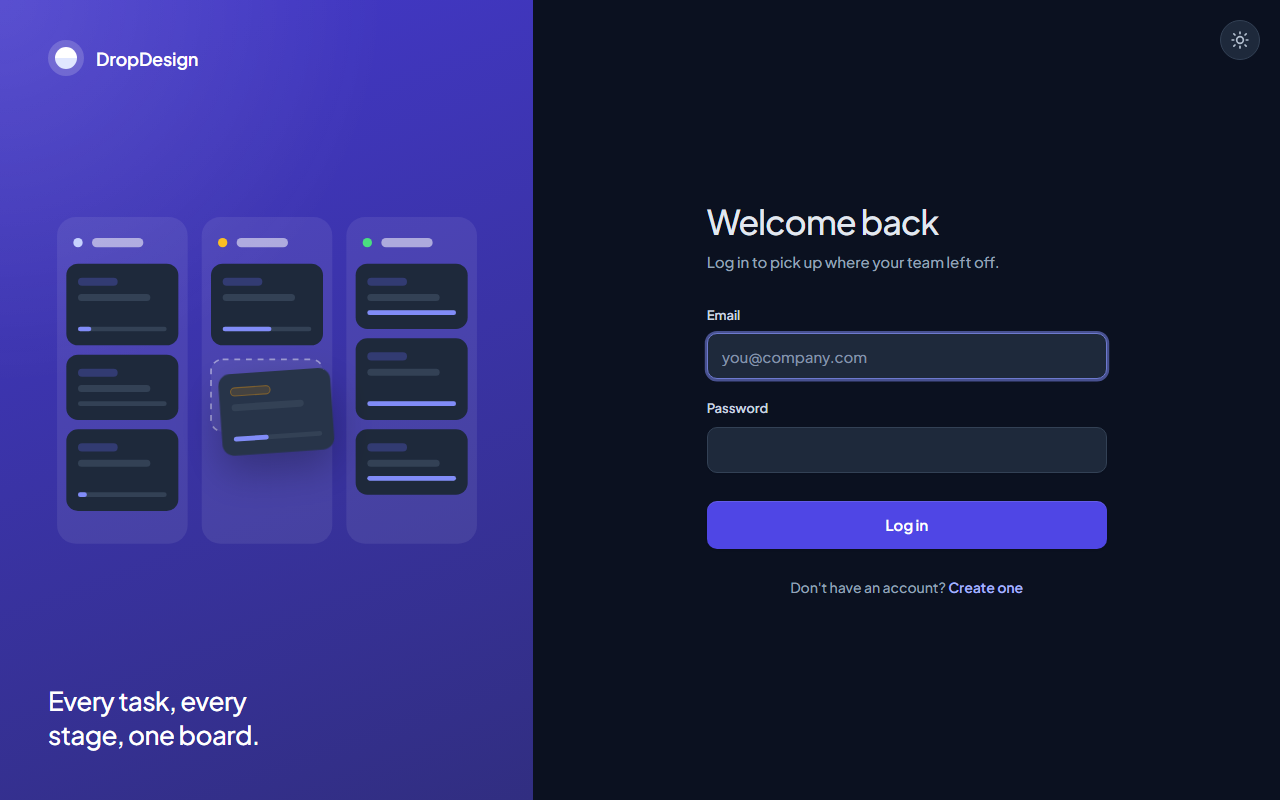
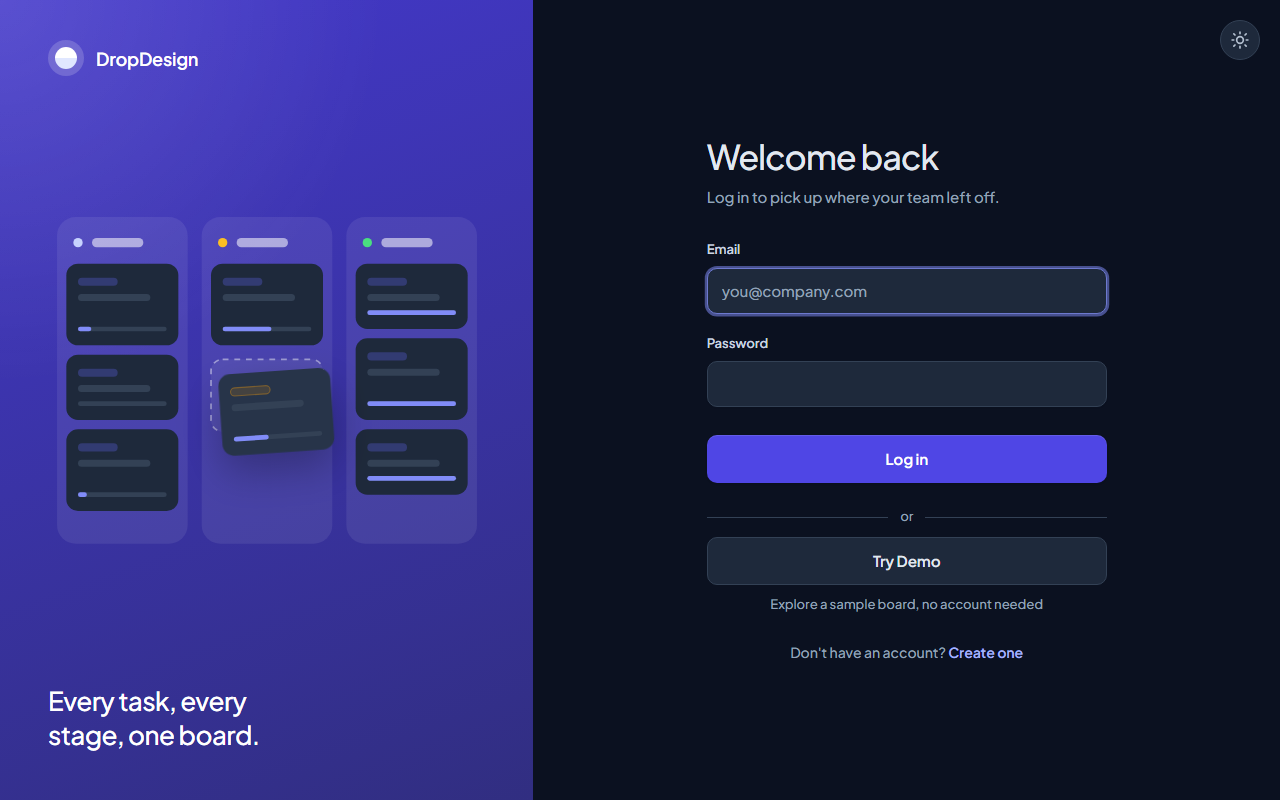
Re-record README media against the live site; update docs
- docs/demo.gif (35.5 s, 960x600, 15 fps, 3.6 MB), recorded on
  https://dropdesign-ashy.vercel.app with Try Demo: the board, the Grid,
  List, Column and Row views, a drag, a comment, dark mode, search and a
  priority filter
- Screenshots retaken from the live site: board and login in light and
  dark, plus the List view (dark)
- README: features (edge-case states, placeholder contrast), the List
  screenshot, test counts (frontend 173, backend 69), coverage (~84% of
  lines), when CI runs, and what the tests cover

The recording scripts stay out of the repo; the demo board was reset after
recording.

Changed region(s): [[0.5312, 0.1875, 0.875, 0.7812], [0.625, 0.8125, 0.8125, 0.8438]]

diff --git a/README.md b/README.md
@@ -19,7 +19,7 @@ to a sample board, no account needed. Or log in with:
 The demo board is shared by everyone and resets every day at 04:00 UTC; the demo account
 can change anything except delete tasks.
 
-![DropDesign demo: logging in, dragging a task to In Progress, commenting on it, switching to dark mode and filtering the board](docs/demo.gif)
+![DropDesign demo: Try Demo, switching between the Grid, List, Column and Row views, dragging a task to In Progress, commenting on it, switching to dark mode, then searching and filtering](docs/demo.gif)
 
 ## Features
 
@@ -32,7 +32,8 @@ can change anything except delete tasks.
 - **Optimistic saving**: changes appear immediately and are saved in order; if the server rejects one, the board reloads and says why
 - **Offline copy**: the last saved board stays viewable (read-only) when the server can't be reached
 - **Dark mode**: follows the system setting until you choose, remembers the choice, no flash on load
-- **Accessibility**: text contrast measured at WCAG AA in both themes, screen reader announcements for drag-and-drop, focus handled in dialogs and menus
+- **Accessibility**: text and placeholder contrast measured at WCAG AA in both themes, screen reader announcements for drag-and-drop, focus handled in dialogs, menus and full-page messages
+- **Friendly edge cases**: a loading skeleton, empty states (empty column, empty board, no search results), a 404 page, and an error page with a reload button if something breaks
 - **Responsive** down to 360px phones, and **Export** of the board as JSON
 
 ## Screenshots
@@ -41,6 +42,10 @@ can change anything except delete tasks.
 |---|---|---|
 | **Light** | ![Board in light mode](docs/screenshots/board-light.png) | ![Login page in light mode](docs/screenshots/login-light.png) |
 | **Dark** | ![Board in dark mode](docs/screenshots/board-dark.png) | ![Login page in dark mode](docs/screenshots/login-dark.png) |
+
+The List view, sortable by status and due date:
+
+![List view in dark mode: every task as a table row with status, priority, due date and assignees](docs/screenshots/list-dark.png)
 
 ## Tech stack
 
@@ -108,18 +113,19 @@ and `npm run demo:reset` against it first.
 ## Tests
 
 ```bash
-npm test                 # frontend: 102 tests (Vitest)
-npm run coverage         # with a coverage report
+npm test                 # frontend: 173 tests (Vitest)
+npm run coverage         # with a coverage report (about 84% of lines)
 cd backend && npm test   # backend: 69 tests against TEST_DATABASE_URL
 ```
 
-CI ([`.github/workflows/ci.yml`](.github/workflows/ci.yml)) runs on every push and pull request
-to `main`: lint, the frontend tests and the production build, plus the backend type-check and
-tests against a Postgres service container.
+CI ([`.github/workflows/ci.yml`](.github/workflows/ci.yml)) runs on pushes to `main` and
+`feature/**` branches and on pull requests to `main`: lint, the frontend tests and the
+production build, plus the backend type-check and tests against a Postgres service container.
 
-The frontend tests focus on the logic that's easiest to break without noticing: the save
-queue and rollback, theme persistence (including the no-flash script in `index.html`),
-filters, drag-and-drop state, and the task modal and comments.
+The frontend tests focus on behaviour that's easy to break without noticing: the save queue
+and rollback, theme persistence (including the no-flash script in `index.html`), filters in
+every view, drag-and-drop state, the task modal and comments, routing and the 404 page, the
+error boundary, and the loading and empty states.
 
 ## Project layout
 
